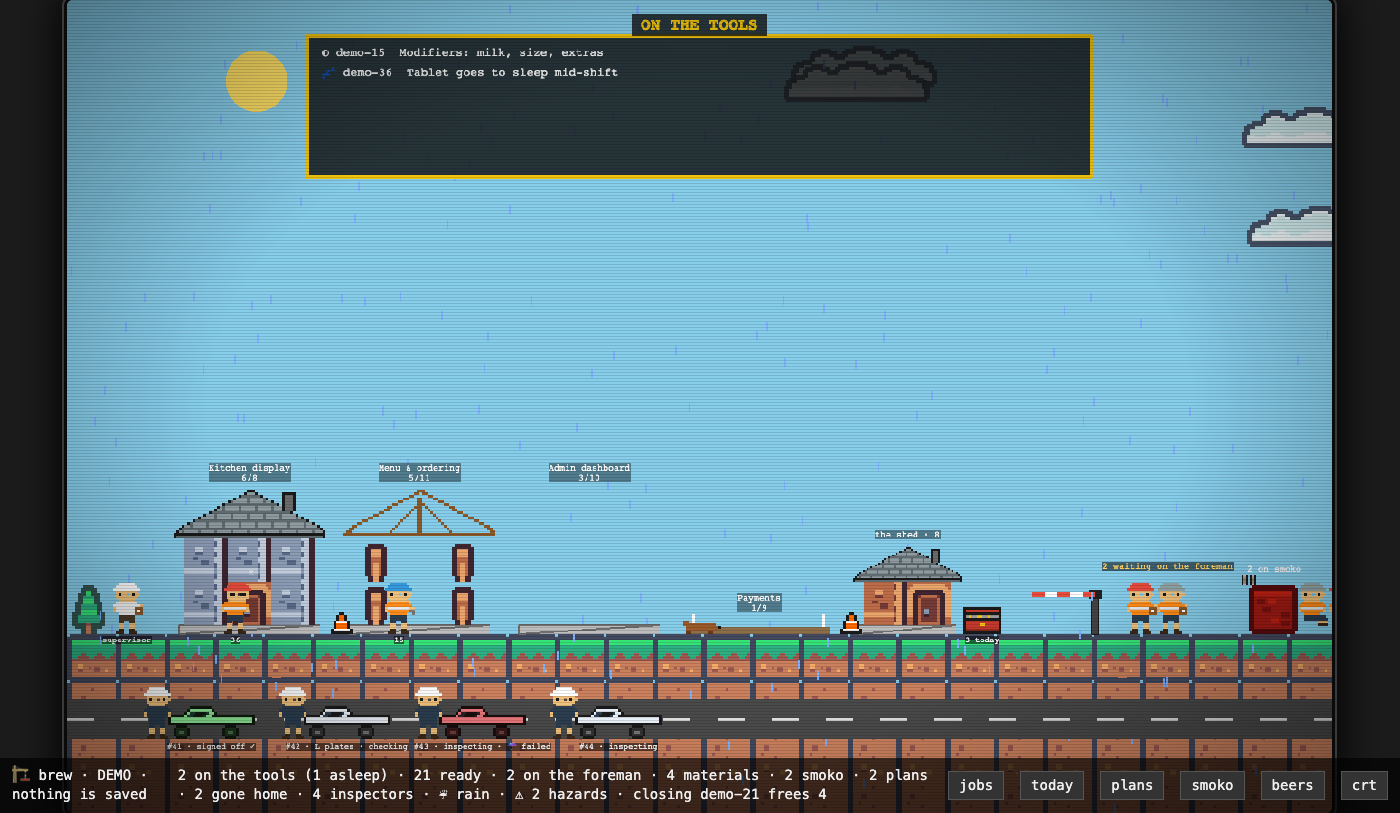
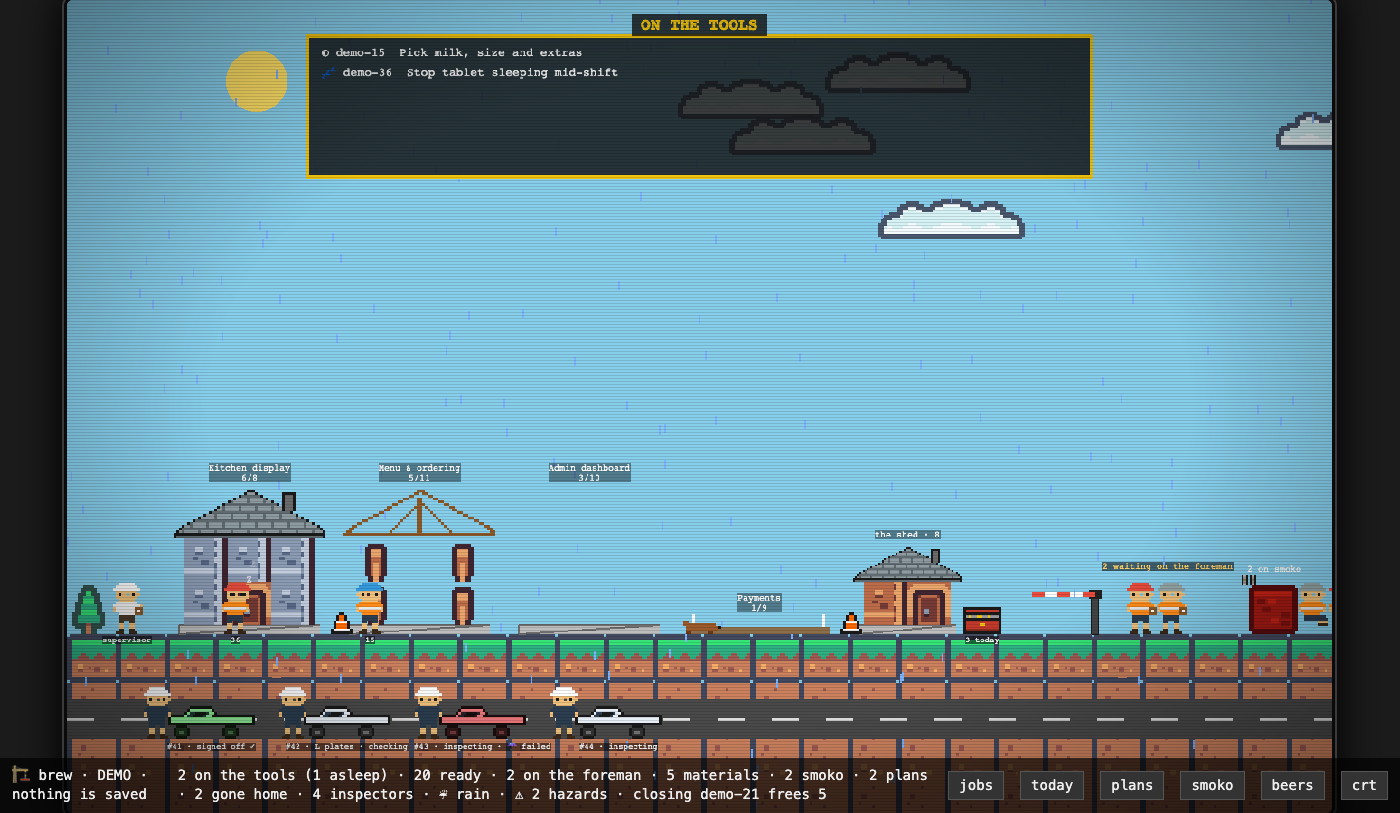
demo beads: real ticket titles, 3-hop payments chain, close reasons tell the story

diff --git a/server/demo/fixture.ts b/server/demo/fixture.ts
@@ -38,24 +38,32 @@ export function fixture(now = new Date()): Fixture {
   ) => closed({ id, title, parent, days, why, ...o });
 
   const items: Item[] = [
-    // --- menu & ordering: mid build, one tradie on it, cones from the last review
+    // --- menu & ordering: mid build, ella on modifiers, a cone from the last review
     epic("demo-1", "Menu & ordering"),
-    done("demo-1", "demo-10", "Menu data model", 12, "shipped"),
-    done("demo-1", "demo-11", "Category tabs", 10, "shipped"),
-    done("demo-1", "demo-12", "Item card with photo", 9, "shipped"),
-    done("demo-1", "demo-13", "Cart drawer", 6, "shipped, see #41"),
-    done("demo-1", "demo-14", "Dietary filter chips", 0, "merged this morning", { closedAt: ago(0, 3) }),
-    kid("demo-1", "demo-15", "Modifiers: milk, size, extras", {
+    done(
+      "demo-1",
+      "demo-10",
+      "Model menu, categories and items",
+      12,
+      "schema in, seeded from the chalkboard",
+    ),
+    done("demo-1", "demo-11", "Render category tabs", 10, "swipes on mobile"),
+    done("demo-1", "demo-12", "Show item card with photo", 9, "Priya shot all 38 items"),
+    done("demo-1", "demo-13", "Add cart drawer", 6, "slides up, see #41"),
+    done("demo-1", "demo-14", "Filter menu by dietary tag", 0, "merged this morning, vegan chips work", {
+      closedAt: ago(0, 3),
+    }),
+    kid("demo-1", "demo-15", "Pick milk, size and extras", {
       status: "in_progress",
       assignee: "ella",
       owner: "ella",
       updatedAt: ago(0, 5),
       trade: "feature",
     }),
-    kid("demo-1", "demo-16", "Out-of-stock badge", { priority: 3 }),
-    kid("demo-1", "demo-17", "Reorder last order", { trade: "feature" }),
-    kid("demo-1", "demo-18", "Allergen info sheet", { labels: ["today"] }),
-    kid("demo-1", "demo-19", "Cart total rounds .005 the wrong way", {
+    kid("demo-1", "demo-16", "Badge sold-out items", { priority: 3 }),
+    kid("demo-1", "demo-17", "Reorder my usual in one tap", { trade: "feature" }),
+    kid("demo-1", "demo-18", "Link allergen sheet from item card", { labels: ["today"] }),
+    kid("demo-1", "demo-19", "Round cart total half-up, not banker's", {
       trade: "bug",
       priority: 1,
       labels: ["hs"],
@@ -63,60 +71,76 @@ export function fixture(now = new Date()): Fixture {
     }),
     kid("demo-1", "demo-1a", "Search menu by name", { priority: 3 }),
 
-    // --- payments: early, everything waits on the provider decision
+    // --- payments: early, the whole chain waits on the provider decision
     epic("demo-2", "Payments"),
-    done("demo-2", "demo-20", "Spike: Stripe vs Square fees", 4, "Square cheaper under 50k/mo", {
+    done("demo-2", "demo-20", "Compare Stripe and Square fees", 4, "Square cheaper under 50k a month", {
       trade: "spike",
     }),
-    kid("demo-2", "demo-21", "Pick payment provider", { trade: "decision", priority: 1, updatedAt: ago(3) }),
-    kid("demo-2", "demo-22", "Card checkout form", { blocked: true, waitsOn: ["demo-21"], trade: "feature" }),
-    kid("demo-2", "demo-23", "Apple Pay / Google Pay", {
+    kid("demo-2", "demo-21", "Decide payment provider", {
+      trade: "decision",
+      priority: 1,
+      updatedAt: ago(3),
+    }),
+    kid("demo-2", "demo-22", "Build card checkout form", {
       blocked: true,
       waitsOn: ["demo-21"],
       trade: "feature",
     }),
-    kid("demo-2", "demo-24", "Refund flow", { blocked: true, waitsOn: ["demo-22"] }),
-    kid("demo-2", "demo-25", "Receipts by email", { blocked: true, waitsOn: ["demo-22"], priority: 3 }),
-    kid("demo-2", "demo-26", "PCI checklist", {
+    kid("demo-2", "demo-23", "Add Apple Pay and Google Pay", {
+      blocked: true,
+      waitsOn: ["demo-21"],
+      trade: "feature",
+    }),
+    kid("demo-2", "demo-24", "Refund an order from the till", { blocked: true, waitsOn: ["demo-22"] }),
+    kid("demo-2", "demo-25", "Email receipt after payment", {
+      blocked: true,
+      waitsOn: ["demo-22"],
+      priority: 3,
+    }),
+    kid("demo-2", "demo-26", "Fill in PCI self-assessment", {
       trade: "chore",
       labels: ["needs-review"],
       updatedAt: ago(2),
     }),
-    kid("demo-2", "demo-27", "Tips at checkout", { priority: 3 }),
-    kid("demo-2", "demo-28", "Split the bill", { status: "deferred", updatedAt: ago(5) }),
+    kid("demo-2", "demo-27", "Show tip line on the receipt", {
+      blocked: true,
+      waitsOn: ["demo-25"],
+      priority: 3,
+    }),
+    kid("demo-2", "demo-28", "Split the bill between cards", { status: "deferred", updatedAt: ago(5) }),
 
-    // --- kitchen display: nearly done, someone fell asleep on the last ticket
+    // --- kitchen display: nearly done, sam fell asleep on the sleepy tablet
     epic("demo-3", "Kitchen display"),
-    done("demo-3", "demo-30", "Ticket queue view", 14, "shipped"),
-    done("demo-3", "demo-31", "Bump bar keys", 13, "shipped"),
-    done("demo-3", "demo-32", "Order timer colours", 11, "shipped"),
-    done("demo-3", "demo-33", "Sound on new order", 8, "shipped"),
-    done("demo-3", "demo-34", "Recall bumped ticket", 7, "shipped"),
-    done("demo-3", "demo-35", "Print to kitchen printer", 1, "works on the Epson, Star untested"),
-    kid("demo-3", "demo-36", "Tablet goes to sleep mid-shift", {
+    done("demo-3", "demo-30", "List open tickets oldest first", 14, "up on the old iPad"),
+    done("demo-3", "demo-31", "Bump ticket with keyboard", 13, "space bumps, b brings back"),
+    done("demo-3", "demo-32", "Colour tickets by wait time", 11, "amber at 5, red at 10"),
+    done("demo-3", "demo-33", "Chime on new order", 8, "kitchen asked for quieter, done"),
+    done("demo-3", "demo-34", "Recall a bumped ticket", 7, "last ten, that's plenty"),
+    done("demo-3", "demo-35", "Print ticket to kitchen printer", 1, "works on the Epson, Star untested"),
+    kid("demo-3", "demo-36", "Stop tablet sleeping mid-shift", {
       trade: "bug",
       status: "in_progress",
       assignee: "sam",
       owner: "sam",
       updatedAt: ago(8),
     }),
-    kid("demo-3", "demo-37", "Station filter: bar vs kitchen", { labels: ["today"] }),
+    kid("demo-3", "demo-37", "Filter tickets by station", { labels: ["today"] }),
 
     // --- loyalty: sold, moved across the road
     epic("demo-4", "Loyalty stamps", { status: "closed", closedAt: ago(3), updatedAt: ago(3) }),
-    done("demo-4", "demo-40", "Stamp card model", 20, "shipped"),
-    done("demo-4", "demo-41", "QR stamp at the till", 17, "shipped"),
-    done("demo-4", "demo-42", "Free coffee redemption", 15, "shipped"),
-    done("demo-4", "demo-43", "Stamp history screen", 9, "shipped"),
-    done("demo-4", "demo-44", "Double stamp Tuesdays", 3, "shipped, marketing happy"),
+    done("demo-4", "demo-40", "Model stamp card per customer", 20, "ten stamps, one free"),
+    done("demo-4", "demo-41", "Scan QR stamp at the till", 17, "first stamp was Marg's flat white"),
+    done("demo-4", "demo-42", "Redeem free coffee", 15, "first free coffee claimed day one"),
+    done("demo-4", "demo-43", "Show stamp history", 9, "shipped"),
+    done("demo-4", "demo-44", "Double stamps on Tuesdays", 3, "Tuesdays up 30 percent, marketing happy"),
 
-    // --- admin with a nested reports epic
+    // --- admin, with reports nested inside
     epic("demo-5", "Admin dashboard"),
-    done("demo-5", "demo-50", "Staff login", 18, "shipped"),
-    done("demo-5", "demo-51", "Edit menu prices", 16, "shipped"),
-    kid("demo-5", "demo-52", "Opening hours editor", { trade: "feature" }),
-    kid("demo-5", "demo-53", "Bulk 86 items", { priority: 3 }),
-    kid("demo-5", "demo-54", "Role: barista can't see takings", {
+    done("demo-5", "demo-50", "Log in staff with a PIN", 18, "four digits, locks after five goes"),
+    done("demo-5", "demo-51", "Edit menu prices inline", 16, "shipped, no more redeploy for a price"),
+    kid("demo-5", "demo-52", "Edit opening hours", { trade: "feature" }),
+    kid("demo-5", "demo-53", "86 several items at once", { priority: 3 }),
+    kid("demo-5", "demo-54", "Hide takings from barista role", {
       trade: "bug",
       blocked: true,
       waitsOn: ["demo-50"],
@@ -125,12 +149,12 @@ export function fixture(now = new Date()): Fixture {
       priority: 1,
     }),
     epic("demo-6", "Reports", { parent: "demo-5" }),
-    done("demo-6", "demo-60", "Daily takings", 5, "shipped"),
-    kid("demo-6", "demo-61", "Best sellers by hour", { trade: "feature" }),
-    kid("demo-6", "demo-62", "Export CSV", { priority: 3 }),
-    kid("demo-6", "demo-63", "Wastage report", { status: "deferred", updatedAt: ago(9) }),
+    done("demo-6", "demo-60", "Show daily takings", 5, "matches the till to the cent"),
+    kid("demo-6", "demo-61", "Chart best sellers by hour", { trade: "feature" }),
+    kid("demo-6", "demo-62", "Export takings as CSV", { priority: 3 }),
+    kid("demo-6", "demo-63", "Report wastage by item", { status: "deferred", updatedAt: ago(9) }),
 
-    // --- the shed: no house
+    // --- the shed: odd jobs with no house
     bead({
       id: "demo-70",
       title: "Upgrade to Node 24",
@@ -138,54 +162,89 @@ export function fixture(now = new Date()): Fixture {
       labels: ["today"],
       updatedAt: ago(1),
     }),
-    bead({ id: "demo-71", title: "Flaky checkout e2e test", trade: "bug", updatedAt: ago(10) }),
+    bead({
+      id: "demo-71",
+      title: "Fix flaky checkout e2e, fails on CI only",
+      trade: "bug",
+      updatedAt: ago(10),
+    }),
     bead({
       id: "demo-72",
-      title: "Rotate the staging API key",
+      title: "Rotate staging API key, waiting on ops",
       trade: "chore",
       updatedAt: ago(12),
       priority: 3,
     }),
-    bead({ id: "demo-73", title: "Dark mode", trade: "feature", updatedAt: ago(35), priority: 4 }),
+    bead({
+      id: "demo-73",
+      title: "Add dark mode, nobody asked",
+      trade: "feature",
+      updatedAt: ago(35),
+      priority: 4,
+    }),
     bead({
       id: "demo-74",
-      title: "Old onboarding copy still mentions beta",
+      title: "Drop 'beta' from onboarding copy",
       updatedAt: ago(41),
       priority: 4,
     }),
     bead({
       id: "demo-75",
-      title: "Secrets committed in scripts/seed.sh",
+      title: "Remove secrets from scripts/seed.sh",
       trade: "bug",
       priority: 0,
       labels: ["hs"],
     }),
-    bead({ id: "demo-76", title: "Logo favicon", priority: 4 }),
-    bead({ id: "demo-77", title: "README screenshots", trade: "chore", priority: 3 }),
-    closed({ id: "demo-78", title: "Set up CI", days: 21, why: "green on main", trade: "chore" }),
+    bead({ id: "demo-76", title: "Draw a favicon", priority: 4 }),
+    bead({ id: "demo-77", title: "Refresh README screenshots", trade: "chore", priority: 3 }),
     closed({ id: "demo-79", title: "Pick a name", days: 25, why: "brew it is", trade: "decision" }),
-    closed({ id: "demo-7a", title: "Domain and DNS", days: 24, why: "brew.cafe live", trade: "chore" }),
-    closed({ id: "demo-7b", title: "Error tracking", days: 19, why: "sentry wired", trade: "chore" }),
     closed({
-      id: "demo-7c",
-      title: "Typo on the thanks page",
-      days: 0,
-      why: "fixed",
+      id: "demo-7a",
+      title: "Register domain and DNS",
+      days: 24,
+      why: "brew.cafe live",
+      trade: "chore",
+    }),
+    closed({
+      id: "demo-78",
+      title: "Set up CI",
+      days: 21,
+      why: "green on main, first commit",
+      trade: "chore",
+    }),
+    closed({
+      id: "demo-7b",
+      title: "Wire error tracking",
+      days: 19,
+      why: "sentry caught one already",
+      trade: "chore",
+    }),
+    closed({ id: "demo-7f", title: "Stand up staging", days: 15, why: "staging.brew.cafe up" }),
+    closed({ id: "demo-7g", title: "Define design tokens", days: 13, why: "in figma and css" }),
+    closed({ id: "demo-7h", title: "Add analytics events", days: 11, why: "plausible, no cookie banner" }),
+    closed({
+      id: "demo-7e",
+      title: "Speed up menu load on 3G",
+      days: 2,
+      why: "images webp, 4s to 1s",
       trade: "bug",
-      closedAt: ago(0, 1),
     }),
     closed({
       id: "demo-7d",
       title: "Lint on commit",
       days: 0,
-      why: "husky in",
+      why: "husky in, no more prettier commits",
       trade: "chore",
       closedAt: ago(0, 6),
     }),
-    closed({ id: "demo-7e", title: "Slow menu load on 3G", days: 2, why: "images now webp", trade: "bug" }),
-    closed({ id: "demo-7f", title: "Staging env", days: 15, why: "up" }),
-    closed({ id: "demo-7g", title: "Design tokens", days: 13, why: "in figma and css" }),
-    closed({ id: "demo-7h", title: "Analytics events", days: 11, why: "plausible, no cookies" }),
+    closed({
+      id: "demo-7c",
+      title: "Fix typo on the thanks page",
+      days: 0,
+      why: "'recieved' no more",
+      trade: "bug",
+      closedAt: ago(0, 1),
+    }),
   ];
 
   const pr = (o: Over & { status: string; blocked?: boolean; ci?: string; priority: number }): Item => {
@@ -203,18 +262,25 @@ export function fixture(now = new Date()): Fixture {
     };
   };
   const prs: Item[] = [
-    pr({ id: "#41", title: "Cart drawer", status: "approved", priority: 2, ci: "pass" }),
-    pr({ id: "#42", title: "Modifiers WIP", status: "draft", priority: 2, owner: "ella", ci: "pending" }),
+    pr({ id: "#41", title: "Add cart drawer (demo-13)", status: "approved", priority: 2, ci: "pass" }),
+    pr({
+      id: "#42",
+      title: "Pick milk, size and extras (demo-15)",
+      status: "draft",
+      priority: 2,
+      owner: "ella",
+      ci: "pending",
+    }),
     pr({
       id: "#43",
-      title: "Kitchen printer support",
+      title: "Print ticket to kitchen printer (demo-35)",
       status: "review",
       priority: 0,
       blocked: true,
       ci: "fail",
       owner: "sam",
     }),
-    pr({ id: "#44", title: "Bump vite", status: "review", priority: 1, owner: "dependabot" }),
+    pr({ id: "#44", title: "Bump vite to 8.3", status: "review", priority: 1, owner: "dependabot" }),
   ];
 
   return { items, prs, foreman: FOREMAN };
